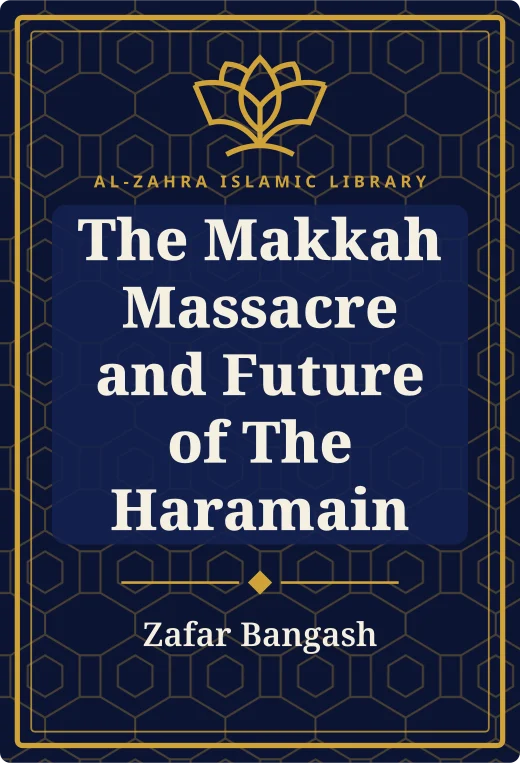
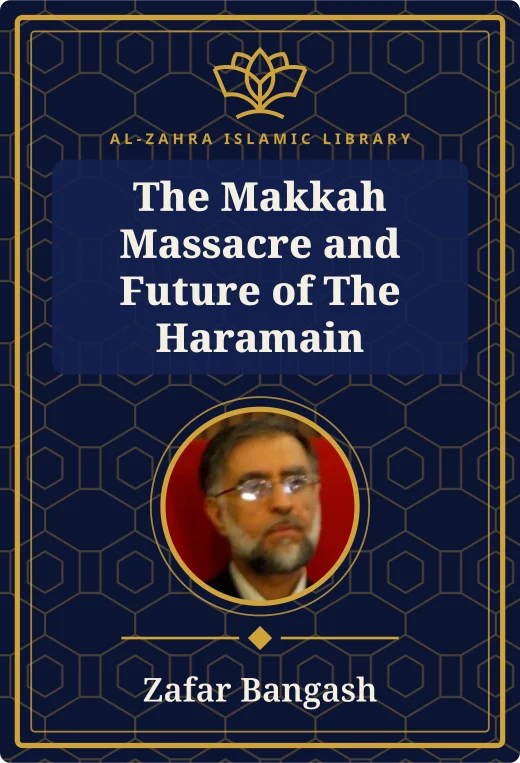
Author photos: Khamenei from khamenei.ir; Amir Taheri and Zafar Bangash
- Ali Khamenei: the portrait chosen by the site owner, from english.khamenei.ir
  (CC BY 4.0), cropped and framed so the whole head fits; his 7 drawn covers
  redrawn. Hand-added photos (any photoSource) are never replaced by the script.
- Amir Taheri (UK OGL) and Zafar Bangash (Attribution) from Wikimedia Commons;
  the photo script now also accepts those two credit-only licences.
- Photo credit wording mentions authors' official websites.

diff --git a/src/app/authors/photo-credits/page.tsx b/src/app/authors/photo-credits/page.tsx
@@ -11,12 +11,13 @@ export const metadata: Metadata = {
 export default function PhotoCreditsPage() {
   const list = allPhotos().sort((a, b) => a.name.localeCompare(b.name));
   const fromWs = list.filter((x) => x.photo.photoSource === "WikiShia").length;
+  const others = list.filter((x) => x.photo.photoSource && x.photo.photoSource !== "WikiShia");
   return (
     <div className="container page">
       <Breadcrumbs items={[{ label: "Home", href: "/" }, { label: "Authors", href: "/authors/" }, { label: "Photo credits" }]} />
       <h1>Author photo credits</h1>
       <p className="lede">
-        The {list.length} author photos on this site come from Wikimedia Commons, each under a free licence that allows reuse with credit,{fromWs > 0 && ` and from WikiShia (${fromWs}), whose copyright policy allows reuse with the source credited`}. Authors without a verified photo are shown with their initials.
+        The {list.length} author photos on this site come from Wikimedia Commons, each under a free licence that allows reuse with credit,{fromWs > 0 && ` and from WikiShia (${fromWs}), whose copyright policy allows reuse with the source credited`}{others.length > 0 && `, and ${others.length === 1 ? "one" : others.length} from ${[...new Set(others.map((x) => x.photo.photoSource))].join(", ")} under ${[...new Set(others.map((x) => x.photo.license))].join(", ")}`}. Authors without a verified photo are shown with their initials.
       </p>
       <ul className="credit-list">
         {list.map(({ name, photo }) => (

diff --git a/src/lib/authorPhotos.ts b/src/lib/authorPhotos.ts
@@ -20,7 +20,7 @@ export type AuthorPhoto = {
   license: string;
   licenseUrl: string | null;
   wikipediaUrl?: string;
-  /** "WikiShia" for photos from WikiShia's media library; otherwise Wikimedia Commons. */
+  /** Where a hand-added photo came from ("WikiShia", or a site such as "khamenei.ir"); empty = Wikimedia Commons. */
   photoSource?: string;
   /**
    * Where the head is (centre, in percent from the left and top) and how close to zoom. Zoom 1 = the photo's
@@ -34,7 +34,7 @@ export type AuthorPhoto = {
 export { circleLayout, frameStyle } from "./photoLayout";
 
 /** Where a photo came from, for its credit line. */
-export const photoVia = (p: Pick<AuthorPhoto, "photoSource">) => (p.photoSource === "WikiShia" ? "WikiShia" : "Wikimedia Commons");
+export const photoVia = (p: Pick<AuthorPhoto, "photoSource">) => p.photoSource || "Wikimedia Commons";
 
 /** ", via Wikimedia Commons" — left out when the creator already names the site (WikiShia photos). */
 export const viaSuffix = (p: Pick<AuthorPhoto, "photoSource" | "creator">) => (p.creator === photoVia(p) ? "" : `, via ${photoVia(p)}`);

diff --git a/src/app/authors/page.tsx b/src/app/authors/page.tsx
@@ -56,7 +56,7 @@ export default function AuthorsPage() {
       ))}
       </div>
       <p className="small muted photo-credits-link">
-        Author photos are from Wikimedia Commons (free licences) and WikiShia (used with credit).{" "}
+        Author photos are from Wikimedia Commons (free licences), WikiShia and a few authors’ official websites, each used with credit.{" "}
         <Link href="/authors/photo-credits/">See every photo&rsquo;s credit and licence</Link>.
       </p>
     </div>

diff --git a/data/authors-report.md b/data/authors-report.md
@@ -195,7 +195,7 @@ Each photo is the main image of the hand-picked Wikipedia article, from Wikimedi
 | Ali Abunimah | [Ali Abunimah](https://en.wikipedia.org/wiki/Ali_Abunimah) | Palestinian-American journalist (born 1971) | [CC BY 3.0](https://commons.wikimedia.org/wiki/File:Ali_Abunimah.png) | Northampton Community Television | 628×475 |
 | Alija Ali Izetbegovic | [Alija Izetbegović](https://en.wikipedia.org/wiki/Alija_Izetbegovi%C4%87) | Bosnian politician (1925–2003) | [Public domain](https://commons.wikimedia.org/wiki/File:Alija_Izetbegovic_(cropped).jpg) | Helene C. Stikkel | 755×1056 |
 | Amin Maalouf | [Amin Maalouf](https://en.wikipedia.org/wiki/Amin_Maalouf) | Lebanese-born French author (born 1949) | [CC BY-SA 4.0](https://commons.wikimedia.org/wiki/File:Amin_Maalouf_05.jpg) | Miranda R Wolf | 454×454 **low-res** |
-| Amir Taheri | [Amir Taheri](https://en.wikipedia.org/wiki/Amir_Taheri) | Iranian author (born 1942) | — skipped: licence not accepted: OGL v1.0 | | |
+| Amir Taheri | [Amir Taheri](https://en.wikipedia.org/wiki/Amir_Taheri) | Iranian author (born 1942) | [OGL v1.0](https://commons.wikimedia.org/wiki/File:Amir_Taheri_(cropped).jpg) | Foreign and Commonwealth Office | 651×970 |
 | Bediuzzaman Said Nursi | [Said Nursi](https://en.wikipedia.org/wiki/Said_Nursi) | Kurdish scholar of Islam (1877–1960) | [Public domain](https://commons.wikimedia.org/wiki/File:Said_Nursi_passport_photo_1918.jpg) | Unknown author | 945×1357 |
 | Dr. Zakir Naik | [Zakir Naik](https://en.wikipedia.org/wiki/Zakir_Naik) | Indian Islamic scholar (born 1965) | [CC BY 2.0](https://commons.wikimedia.org/wiki/File:Dr_Zakir_Naik_(cropped)_2.jpg) | maapu | 630×794 |
 | Gilles Kepel | [Gilles Kepel](https://en.wikipedia.org/wiki/Gilles_Kepel) | French political scientist and Arabist (born 1955) | [CC BY 2.0](https://commons.wikimedia.org/wiki/File:Gilles_Kepel_-_Chatham_House_2012.jpeg) | Chatham House | 1246×1380 |
@@ -250,7 +250,7 @@ Each photo is the main image of the hand-picked Wikipedia article, from Wikimedi
 | Allamah Ali Naqi Naqvi | [Ali Naqi Naqvi](https://en.wikipedia.org/wiki/Ali_Naqi_Naqvi) | Indian poet, writer and jurist (1905–1988) | — skipped: the article has no free main image | | |
 | Allamah Rasheed Turabi | [Rasheed Turabi](https://en.wikipedia.org/wiki/Rasheed_Turabi) | Pakistani religious scholar and philosopher (1908–1973) | [Public domain](https://commons.wikimedia.org/wiki/File:AllamahRasheed1.jpg) | Arsalanrkazi (talk) (Uploads) | 1120×1000 |
 | Syed Jawad Naqvi | [Syed Jawad Naqvi](https://en.wikipedia.org/wiki/Jawad_Naqvi) | Pakistani Islamic scholar (born 1952) | — skipped: image is not on Wikimedia Commons | | |
-| Zafar Bangash | [Zafar Bangash](https://en.wikipedia.org/wiki/Zafar_Bangash) | Islamic journalist and imam | — skipped: licence not accepted: Attribution | | |
+| Zafar Bangash | [Zafar Bangash](https://en.wikipedia.org/wiki/Zafar_Bangash) | Islamic journalist and imam | [Attribution](https://commons.wikimedia.org/wiki/File:Zafar_Bangash.png) | Joshua Sherurcij | 396×372 **low-res** |
 | Mirza Ghulam Ahmad of Qadian | [Mirza Ghulam Ahmad](https://en.wikipedia.org/wiki/Mirza_Ghulam_Ahmad) | Indian religious leader and founder of the Ahmadiyya community (1835–1908) | [Public domain](https://commons.wikimedia.org/wiki/File:Mirza_Ghulam_Ahmad_(c._1897).jpg) | Unknown | 1475×2127 |
 | Ayatullah Najafi Quchani | — |  | — skipped: checked by hand: not certain the Commons image is a photograph rather than a drawing | | |
 | Muhammad Baqir al-Majlisi | WikiShia photo |  | [used with credit](http://commons.wikishia.net/common/File:Allama_Majlisi.jpg) | WikiShia | 478×585 **low-res** |
